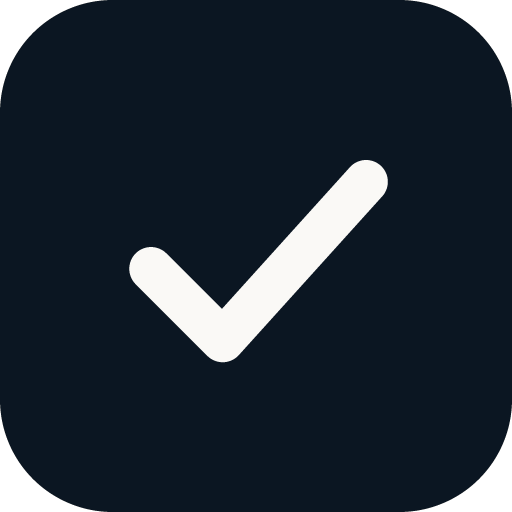
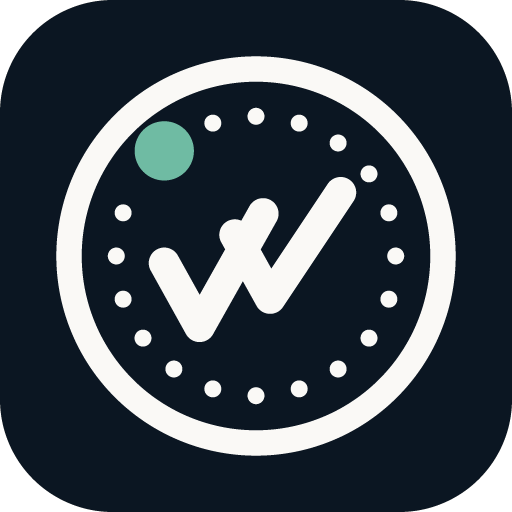
Stamp the agreement with a seal that spells the name
Two ticks crossing inside a perforated stamp, with a green bead on the
perforation that doubles as the tittle over an i, so the mark reads iW.
Replaces the rounded square and tick, which said only "done" and said it
in the same shape as every other product.

Drawn twice on purpose. The beads are 2.4 units across in a 64-unit box,
so under about 30px they stop resolving and turn into a grey ring that
swallows the ticks. The favicon therefore drops the ring and perforation
and pulls the bead back to tittle distance. Optical sizing, not a second
logo.

The perforation is generated from one set of numbers in both places, and
the beads that fall under the accent bead are dropped rather than covered
- left in, they poke out from underneath as white slivers. The two
renderers cannot share a module, so the numbers are duplicated and the
comments say so.

The bead is not the brand accent. #1B5E4F against ink is nearly black,
and the bead has to separate from the strokes it sits among rather than
from the paper behind them.

diff --git a/components/Header.tsx b/components/Header.tsx
@@ -106,17 +106,69 @@ export function Header() {
   );
 }
 
+/** Where the accent dot sits: on the perforation radius, above the left tick. */
+const DOT = { x: 19, y: 17.1, r: 4.2 };
+
+const PERF_RADIUS = 19.8;
+const PERF_COUNT = 20;
+const BEAD_RADIUS = 1.2;
+
+/**
+ * The perforation, generated rather than hand-placed so this and the same
+ * numbers in `scripts/make-icons.mjs` cannot drift apart.
+ *
+ * Beads that fall under the accent dot are dropped, so the dot reads as one
+ * enlarged bead standing in for them rather than a blob covering them — left
+ * in, they poke out from underneath as white slivers.
+ */
+const PERFORATION = Array.from({ length: PERF_COUNT }, (_, i) => {
+  const angle = (i / PERF_COUNT) * Math.PI * 2 - Math.PI / 2;
+  return {
+    x: 32 + PERF_RADIUS * Math.cos(angle),
+    y: 32 + PERF_RADIUS * Math.sin(angle),
+  };
+}).filter(
+  ({ x, y }) => Math.hypot(x - DOT.x, y - DOT.y) > DOT.r + BEAD_RADIUS + 0.6,
+);
+
+/**
+ * The seal: a perforated stamp around two ticks, with a dot on the perforation
+ * that doubles as the tittle over an i — so the mark spells iW.
+ *
+ * Bigger than the old rounded square on purpose. The beads are 2.4 units across
+ * in a 64-unit box, so below roughly 30px they stop resolving and turn into a
+ * grey haze. `scripts/make-icons.mjs` draws a simplified version — no ring, no
+ * perforation — for anything smaller, which is why the favicon and this are
+ * deliberately not the same artwork.
+ */
 function Mark() {
   return (
-    <svg width="26" height="26" viewBox="0 0 26 26" fill="none" aria-hidden="true">
-      <rect x="1" y="1" width="24" height="24" rx="7" className="fill-ink" />
-      <path
-        d="M8 13.4l3 3 7-7"
-        stroke="#FAF9F6"
-        strokeWidth="1.9"
+    <svg width="32" height="32" viewBox="0 0 64 64" fill="none" aria-hidden="true">
+      <circle cx="32" cy="32" r="26.5" className="stroke-ink" strokeWidth="3.6" />
+      {PERFORATION.map((bead) => (
+        <circle
+          key={`${bead.x}-${bead.y}`}
+          cx={bead.x}
+          cy={bead.y}
+          r={BEAD_RADIUS}
+          className="fill-ink"
+        />
+      ))}
+      <g
+        className="stroke-ink"
+        strokeWidth="4.4"
         strokeLinecap="round"
         strokeLinejoin="round"
-      />
+      >
+        <path d="M19 33l5 9 9-16" />
+        <path d="M29 29l5 9 10-15" />
+      </g>
+      {/*
+        Not `accent` (#1B5E4F). The dot has to contrast with the ink strokes, not
+        with the paper behind them, and against ink the brand green reads as an
+        off-colour smudge rather than a separate mark. Lifted for legibility.
+      */}
+      <circle cx={DOT.x} cy={DOT.y} r={DOT.r} fill="#1B8A72" />
     </svg>
   );
 }
